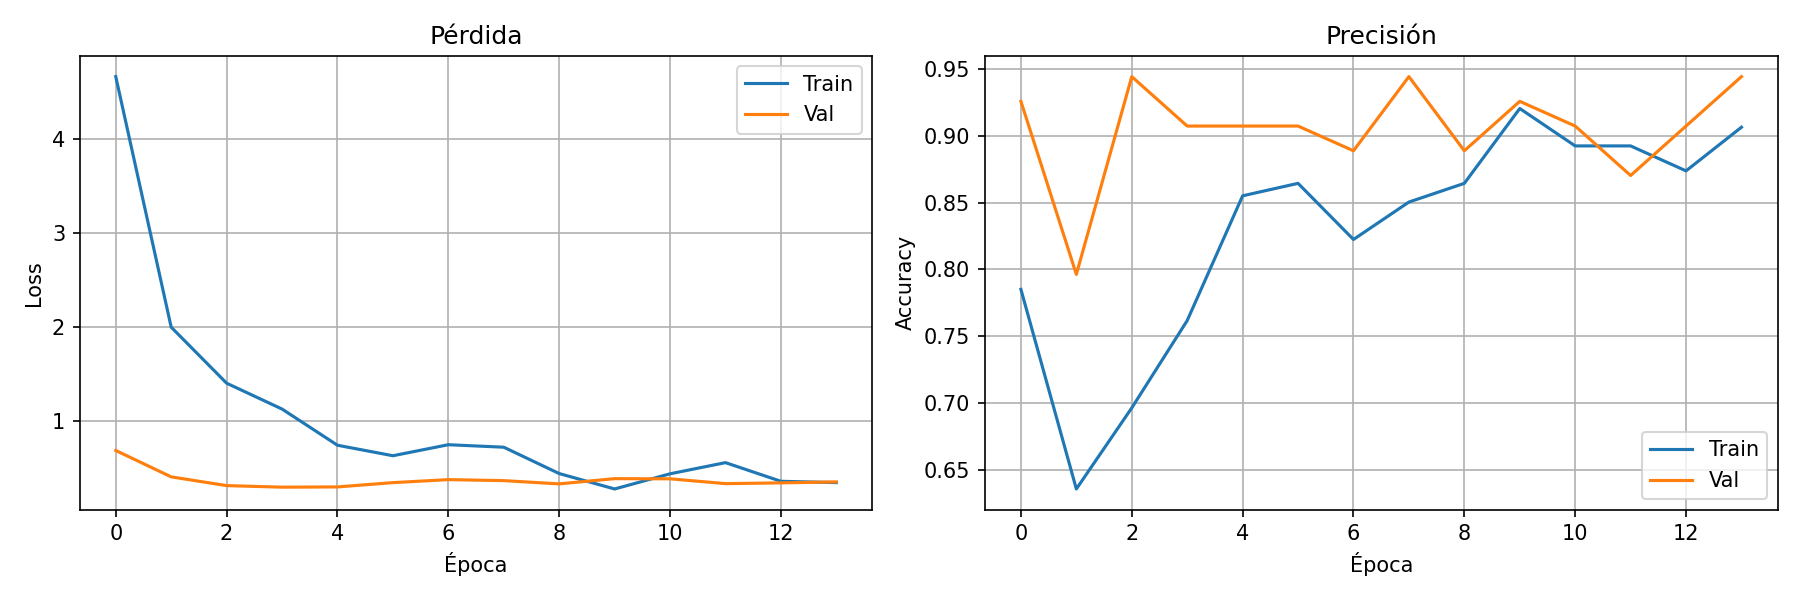
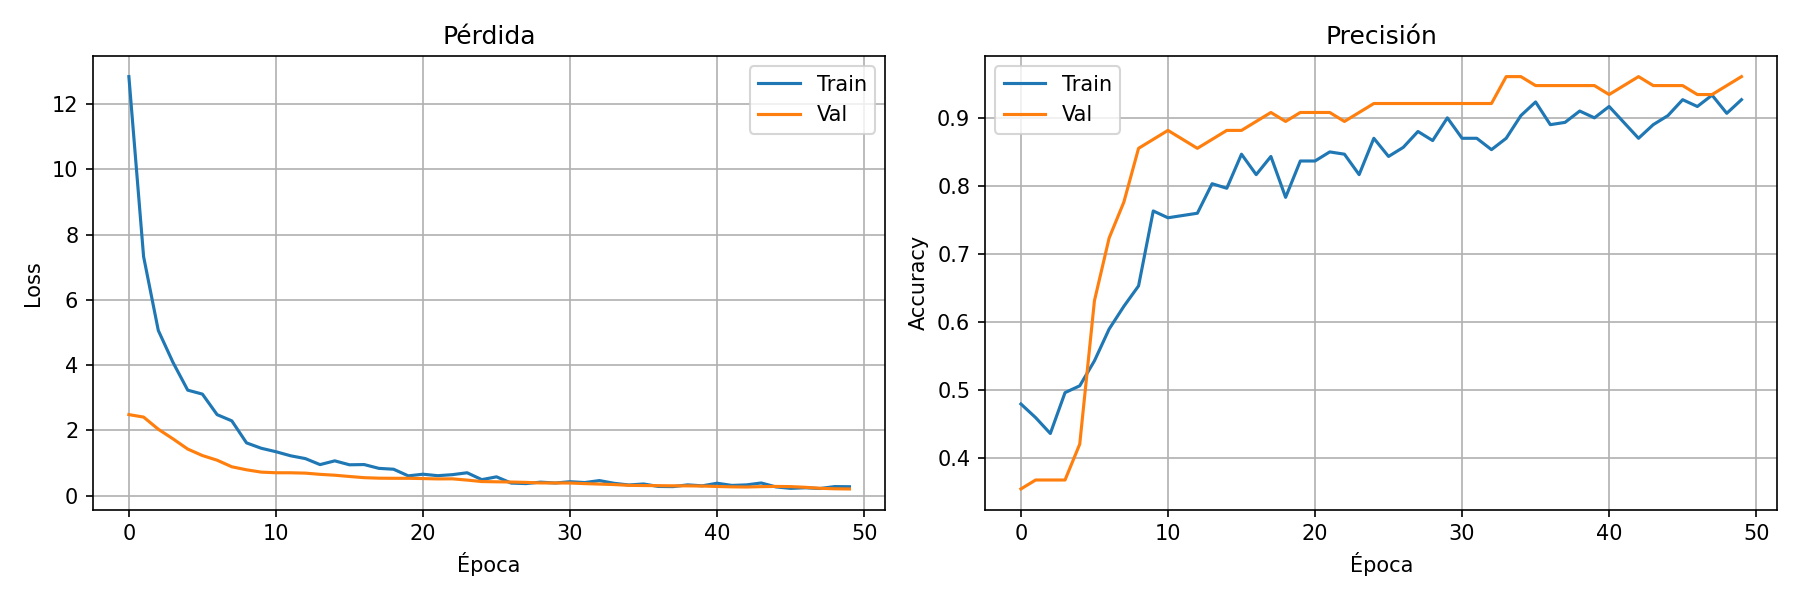
Add real-time fall detection using CNN model
Integrates a trained CNN model for real-time fall detection using data from two BLE sensors (cadera and pierna). Adds model loading, sliding window buffering, and prediction logic to receptor_dual_ble.py. Updates console output to show fall detection status. Also updates entrenamiento_arduino.png and adds matriz_confusion_arduino.png.

diff --git a/Codigos raspberry/receptor_dual_ble.py b/Codigos raspberry/receptor_dual_ble.py
@@ -1,6 +1,7 @@
 """
 Cliente BLE para conectar DOS Arduinos Nano 33 BLE Sense
 Recibe datos de cadera y pierna simultáneamente
+Usa modelo CNN para detectar caídas en tiempo real
 """
 import asyncio
 import json
@@ -9,6 +10,8 @@ from pathlib import Path
 from bleak import BleakClient, BleakScanner
 from datetime import datetime
 import csv
+from tensorflow import keras
+from collections import deque
 
 # --- CONFIGURACIÓN ---
 DEVICE_CADERA = "Sensor-Cadera"
@@ -18,6 +21,11 @@ DEVICE_PIERNA = "Sensor-Pierna"
 CHAR_CADERA = "19b10001-0000-1000-8000-00805f9b34fb"
 CHAR_PIERNA = "19b20001-0000-1000-8000-00805f9b34fb"
 
+# Modelo y ventana de detección
+MODEL_PATH = "modelo_caidas_arduino.h5"
+WINDOW_SIZE = 40  # 2 segundos a 20Hz
+UMBRAL_CAIDA = 0.5
+
 # Archivo de salida
 OUTPUT_FILE = "datos_dos_sensores.csv"
 
@@ -26,9 +34,27 @@ datos_cadera = {"ax": 0, "ay": 0, "az": 0, "gx": 0, "gy": 0, "gz": 0}
 datos_pierna = {"ax": 0, "ay": 0, "az": 0, "gx": 0, "gy": 0, "gz": 0}
 contador = 0
 
+# Buffer circular para ventana deslizante
+ventana = deque(maxlen=WINDOW_SIZE)
+modelo = None
+
 print("╔════════════════════════════════════════════════╗")
-print("║   Receptor Dual BLE - Cadera + Pierna        ║")
+print("║   Detector de Caídas - Dual BLE + CNN        ║")
 print("╚════════════════════════════════════════════════╝\n")
+
+# --- CARGAR MODELO ---
+def cargar_modelo():
+    """Carga el modelo CNN entrenado"""
+    global modelo
+    try:
+        modelo = keras.models.load_model(MODEL_PATH)
+        num_features = modelo.input_shape[2]
+        print(f"✅ Modelo cargado: {MODEL_PATH}")
+        print(f"   📊 Entrada: (batch, {WINDOW_SIZE}, {num_features})")
+        return num_features
+    except Exception as e:
+        print(f"❌ Error cargando modelo: {e}")
+        exit(1)
 
 # --- BUSCAR DISPOSITIVOS ---
 async def find_devices():
@@ -79,10 +105,26 @@ def handler_pierna(sender, data):
     except Exception as e:
         print(f"⚠ Error en pierna: {e}")
 
-# --- GUARDAR DATOS ---
+# --- PREDECIR CAÍDA ---
+def predecir_caida():
+    """Usa el modelo CNN para predecir si hay caída"""
+    global ventana, modelo
+    
+    if len(ventana) < WINDOW_SIZE:
+        return None  # No hay suficientes datos aún
+    
+    # Convertir ventana a numpy array
+    X = np.array(list(ventana))  # Shape: (40, 12)
+    X = X.reshape(1, WINDOW_SIZE, -1)  # Shape: (1, 40, 12)
+    
+    # Predecir
+    pred = modelo.predict(X, verbose=0)[0][0]
+    return pred
+
+# --- GUARDAR DATOS Y DETECTAR ---
 async def guardar_datos():
-    """Guarda los datos combinados cada 50ms (20Hz)"""
-    global contador
+    """Guarda los datos combinados cada 50ms (20Hz) y detecta caídas"""
+    global contador, ventana
     
     # Crear archivo CSV si no existe
     with open(OUTPUT_FILE, 'w', newline='') as f:
@@ -94,33 +136,45 @@ async def guardar_datos():
     
     print(f"\n📝 Guardando datos en: {OUTPUT_FILE}")
     print("─" * 120)
-    print(f"{'Seq':<6} {'Cadera (ax,ay,az | gx,gy,gz)':<55} {'Pierna (ax,ay,az | gx,gy,gz)':<55}")
+    print(f"{'Seq':<6} {'Cadera (ax,ay,az | gx,gy,gz)':<55} {'Pierna (ax,ay,az | gx,gy,gz)':<40} {'Estado':<15}")
     print("─" * 120)
     
     while True:
         contador += 1
         
-        # Combinar datos de ambos sensores
-        fila = [
-            contador,
+        # Combinar datos de ambos sensores (12 features)
+        muestra = [
             datos_cadera["ax"], datos_cadera["ay"], datos_cadera["az"],
             datos_cadera["gx"], datos_cadera["gy"], datos_cadera["gz"],
             datos_pierna["ax"], datos_pierna["ay"], datos_pierna["az"],
             datos_pierna["gx"], datos_pierna["gy"], datos_pierna["gz"]
         ]
         
+        # Agregar a ventana deslizante
+        ventana.append(muestra)
+        
         # Guardar en CSV
+        fila = [contador] + muestra
         with open(OUTPUT_FILE, 'a', newline='') as f:
             writer = csv.writer(f)
             writer.writerow(fila)
         
-        # Mostrar cada 10 muestras
-        if contador % 10 == 0:
+        # Predecir cada 5 muestras
+        estado = "⚪ Normal"
+        if contador % 5 == 0:
+            prob_caida = predecir_caida()
+            
+            if prob_caida is not None:
+                if prob_caida > UMBRAL_CAIDA:
+                    estado = f"🔴 CAÍDA ({prob_caida*100:.1f}%)"
+                else:
+                    estado = f"✅ OK ({prob_caida*100:.1f}%)"
+            
             print(f"{contador:<6} "
                   f"({datos_cadera['ax']:6.3f},{datos_cadera['ay']:6.3f},{datos_cadera['az']:6.3f} | "
                   f"{datos_cadera['gx']:6.3f},{datos_cadera['gy']:6.3f},{datos_cadera['gz']:6.3f})  "
                   f"({datos_pierna['ax']:6.3f},{datos_pierna['ay']:6.3f},{datos_pierna['az']:6.3f} | "
-                  f"{datos_pierna['gx']:6.3f},{datos_pierna['gy']:6.3f},{datos_pierna['gz']:6.3f})")
+                  f"{datos_pierna['gx']:6.3f},{datos_pierna['gy']:6.3f},{datos_pierna['gz']:6.3f})  {estado}")
         
         await asyncio.sleep(0.05)  # 50ms = 20Hz
 
@@ -174,6 +228,13 @@ async def main_loop():
 
 # --- EJECUTAR ---
 if __name__ == "__main__":
+    # Cargar modelo primero
+    num_features = cargar_modelo()
+    
+    if num_features != 12:
+        print(f"⚠ ADVERTENCIA: El modelo espera {num_features} features, pero enviamos 12")
+        print(f"   Entrena el modelo con datos de 12 columnas (cadera + pierna)")
+    
     try:
         asyncio.run(main_loop())
     except KeyboardInterrupt:
